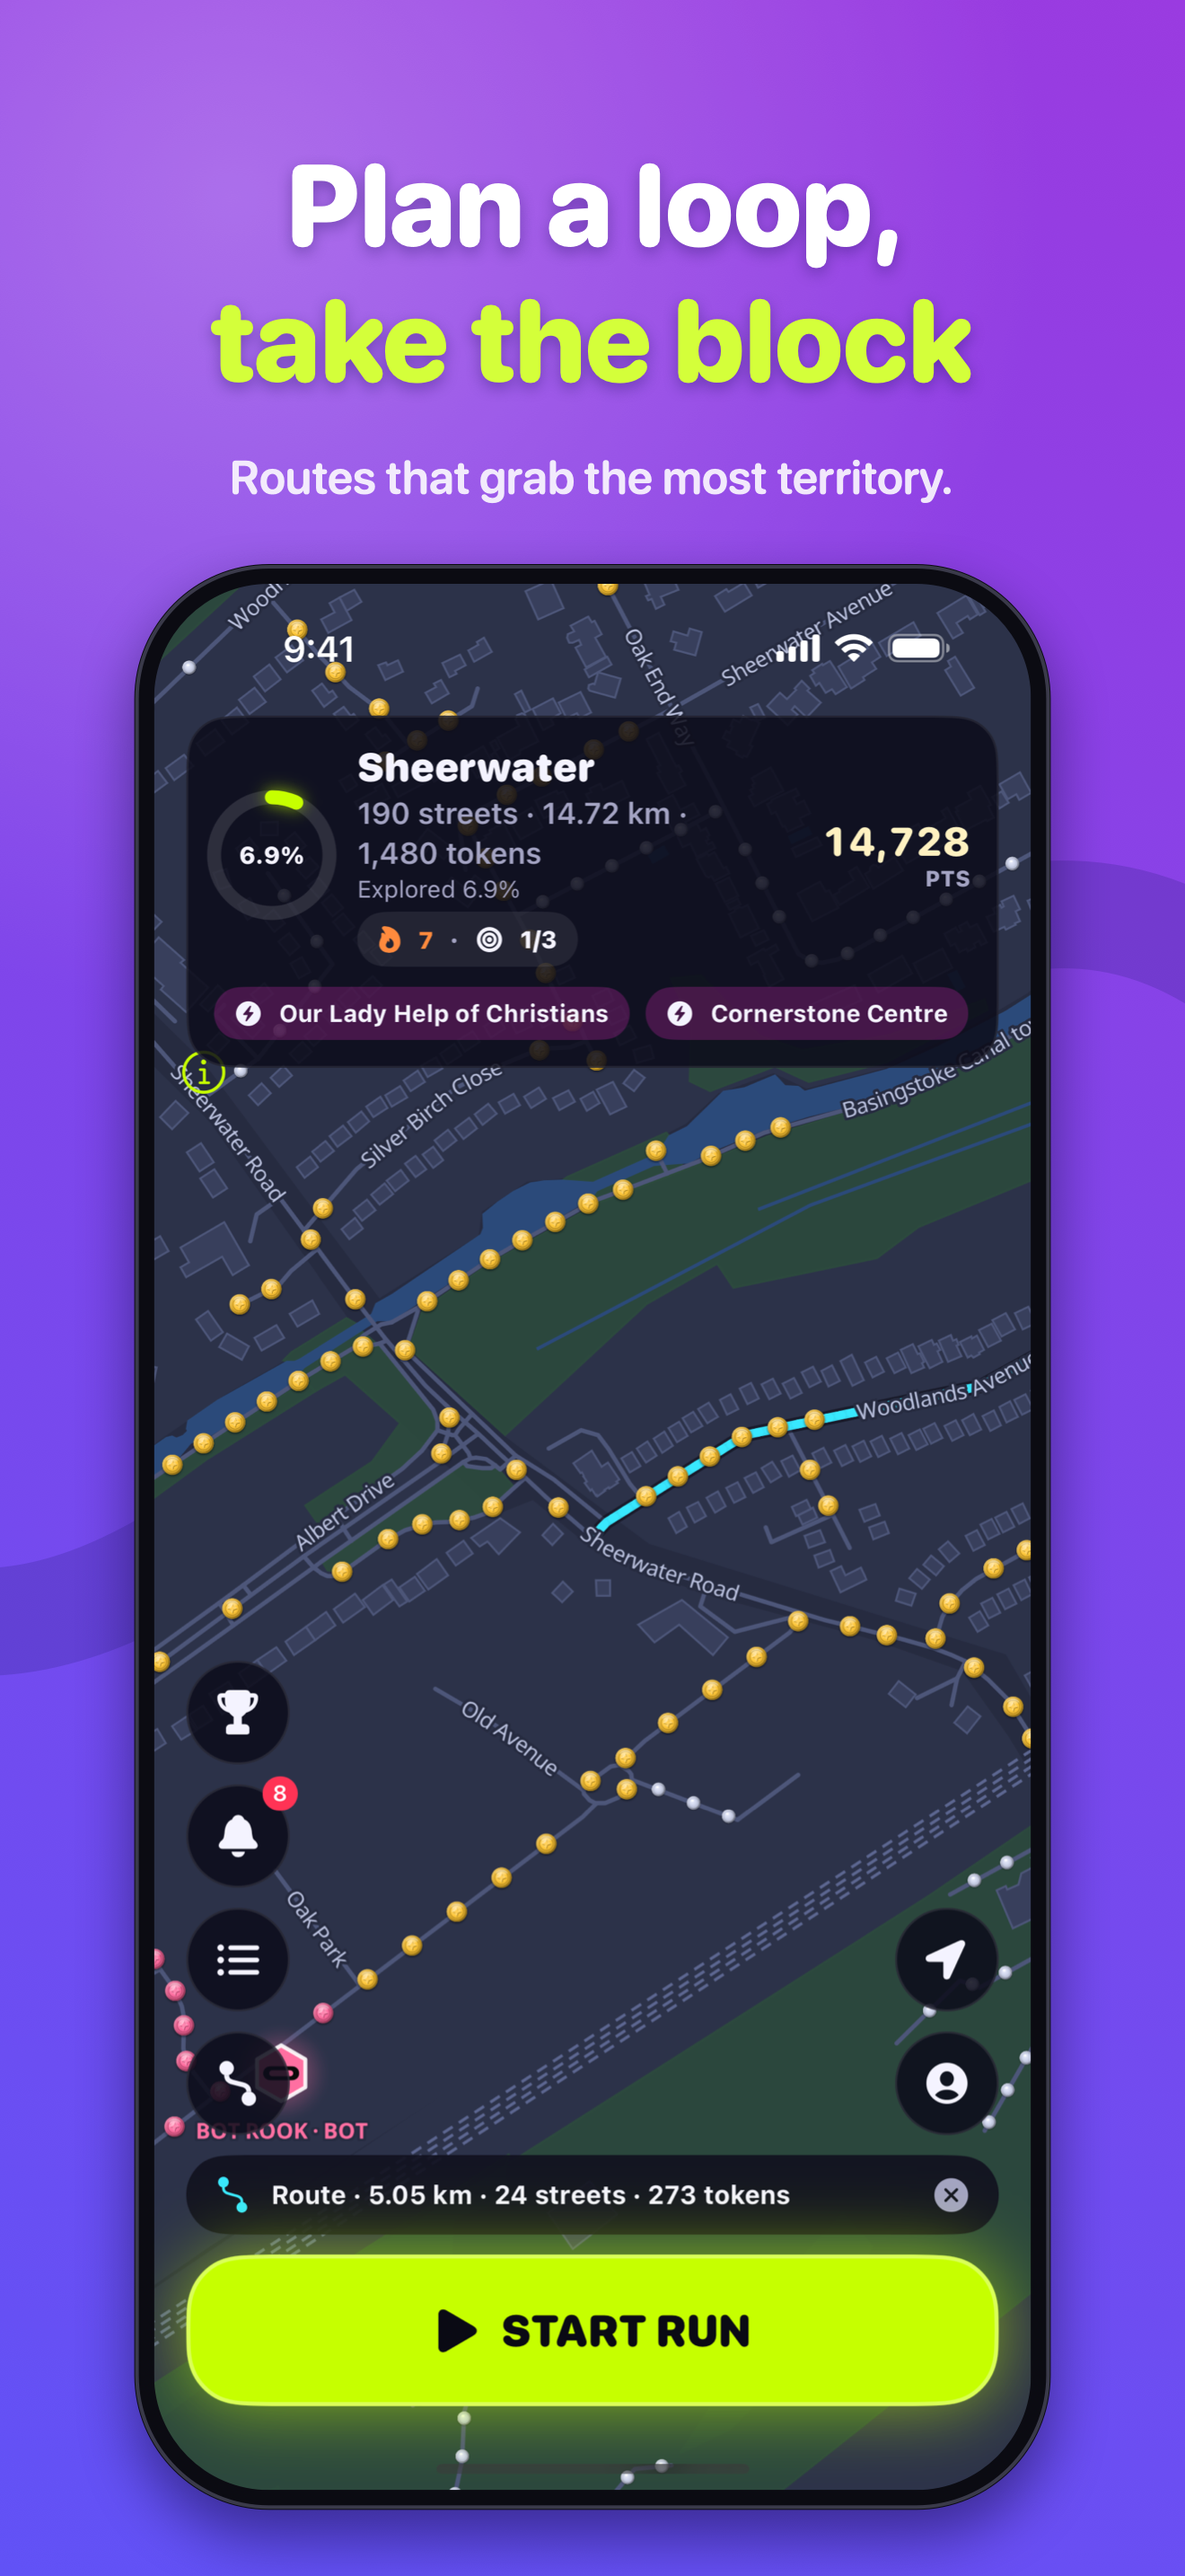
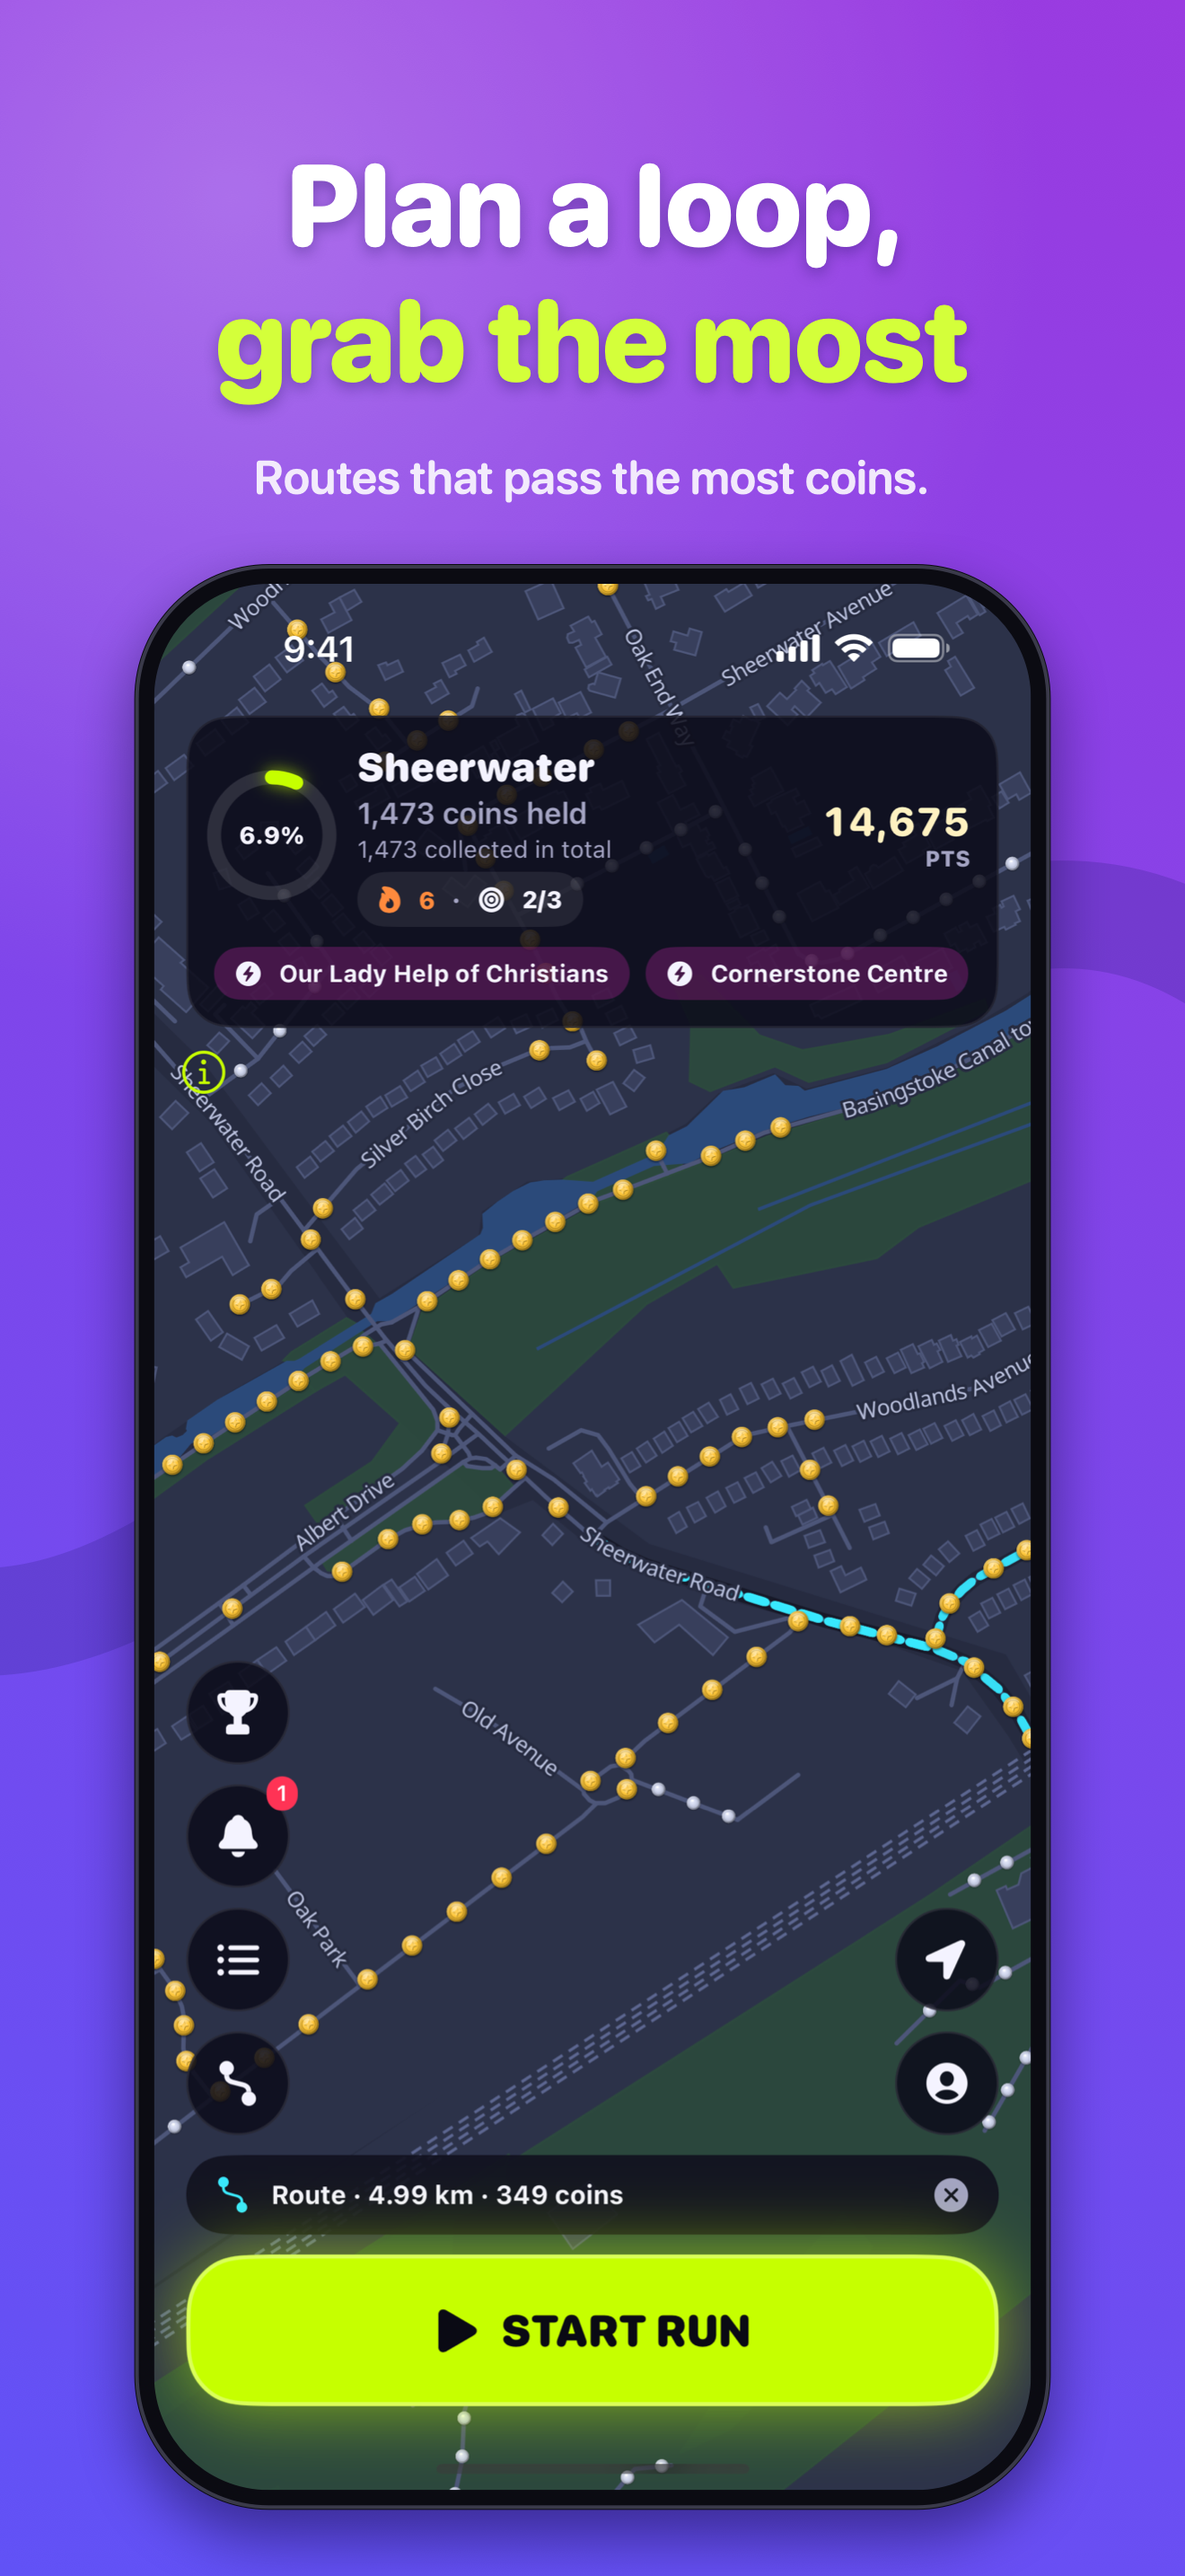
App Store screenshots: retake with coins wording, add the 6.3-inch size
Claude-Session: https://claude.ai/code/session_01FMtq8DZr1tgLvzrY33xyjw

diff --git a/tools/make-screenshots.swift b/tools/make-screenshots.swift
@@ -1,5 +1,6 @@
 // Frames raw simulator captures (1320x2868, iPhone 6.9") as App Store screenshots
-// with a caption. Original artwork only.
+// with a caption, plus a 1206x2622 copy of each for the 6.3" slot (in 6.3-inch/).
+// Original artwork only.
 //   swift tools/make-screenshots.swift <raw dir> <out dir>
 // Raw captures come from ChompUITests/ScreenshotTests (see docs/APP_STORE.md).
 import AppKit
@@ -10,11 +11,11 @@ let outDir = args.count > 2 ? args[2] : "docs/screenshots"
 
 // (raw file, output name, headline, accent line, subline)
 let shots: [(String, String, String, String, String)] = [
-    ("01-map",         "1-make-running-fun", "Make running",  "fun again",       "Every street is covered in coins."),
+    ("01-map",         "1-make-running-fun", "Make running",  "fun again",       "The map around you is covered in coins."),
     ("02-run",         "2-run-it-own-it",    "Run it.",       "Own it.",         "Grab every coin you pass. Steal your rivals' too."),
     ("05-leaderboard", "3-compete",          "Compete with",  "the world",       "Climb the global leaderboard."),
-    ("03-route",       "4-take-the-block",   "Plan a loop,",  "take the block",  "Routes that grab the most territory."),
-    ("04-summary",     "5-every-run-counts", "Every run",     "counts",          "Coins, new streets and a replay of your run."),
+    ("03-route",       "4-take-the-block",   "Plan a loop,",  "grab the most",   "Routes that pass the most coins."),
+    ("04-summary",     "5-every-run-counts", "Every run",     "counts",          "Coins collected, coins stolen and a replay."),
     ("06-goals",       "6-streaks",          "Keep your",     "streak alive",    "New goals every week. Same rules for everyone."),
 ]
 
@@ -88,4 +89,14 @@ for (i, shot) in shots.enumerated() {
     }())
     try! flat.representation(using: .png, properties: [:])!.write(to: URL(fileURLWithPath: "\(outDir)/\(shot.1).png"))
     print("wrote", "\(outDir)/\(shot.1).png")
+
+    // The 6.3" slot (iPhone 16/17 Pro) wants 1206x2622: the same shape, scaled.
+    let small = CGSize(width: 1206, height: 2622)
+    let c63 = CGContext(data: nil, width: Int(small.width), height: Int(small.height), bitsPerComponent: 8, bytesPerRow: 0,
+                        space: CGColorSpaceCreateDeviceRGB(), bitmapInfo: CGImageAlphaInfo.noneSkipLast.rawValue)!
+    c63.interpolationQuality = .high
+    c63.draw(flat.cgImage!, in: CGRect(origin: .zero, size: small))
+    try? FileManager.default.createDirectory(atPath: "\(outDir)/6.3-inch", withIntermediateDirectories: true)
+    try! NSBitmapImageRep(cgImage: c63.makeImage()!).representation(using: .png, properties: [:])!
+        .write(to: URL(fileURLWithPath: "\(outDir)/6.3-inch/\(shot.1).png"))
 }

diff --git a/docs/APP_STORE.md b/docs/APP_STORE.md
@@ -38,12 +38,12 @@ running,run,coins,collect,map,game,steal,neighbourhood,fitness,jogging,gps,club,
 ## What's new (1.0)
 First release. Go and grab some coins.
 
-## Screenshots (6.9", 1320x2868; App Store scales them for smaller iPhones)
-Ready to upload in `docs/screenshots/`, in this order:
+## Screenshots
+6.9" (1320x2868) in `docs/screenshots/`; 6.3" (1206x2622) in `docs/screenshots/6.3-inch/`. Same order:
 1. Map: "Make running fun again"
 2. Mid-run: "Run it. Own it."
 3. Leaderboard: "Compete with the world"
-4. Planned route: "Plan a loop, take the block"
+4. Planned route: "Plan a loop, grab the most"
 5. Run summary: "Every run counts"
 6. Goals and streak: "Keep your streak alive"
 
